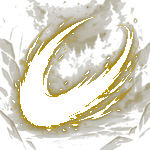
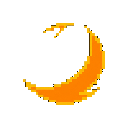
Replace boss1 wind slash with simple pixel art style

diff --git a/game/hello-world/src/scenes/BossScene.js b/game/hello-world/src/scenes/BossScene.js
@@ -1375,25 +1375,11 @@ class BossScene extends Phaser.Scene {
     slash.damage = 2; // ボス1の斬撃ダメージ
     
     // 風圧っぽさを出すための調整
-    slash.setScale(1.5, 3.5); // 縦方向に大きく伸ばして風の刃を表現
-    slash.setAlpha(0.7); // 少し透かす
-    slash.setBlendMode(Phaser.BlendModes.ADD); // 加算合成で白っぽく光る風圧感を出す
+    slash.setScale(1.5); // サイズは少し大きくする程度
     slash.setDepth(9);
     
     // 角度に合わせて回転させる
     slash.setAngle(angleDeg);
-    
-    // 風の揺らぎ（脈動）を表現するアニメーション
-    this.tweens.add({
-      targets: slash,
-      scaleX: 2.5,
-      scaleY: 4.5,
-      alpha: 0.4,
-      duration: 200,
-      yoyo: true,
-      repeat: -1,
-      ease: 'Sine.easeInOut'
-    });
     
     // 速度設定
     var speed = 350;

diff --git a/game/hello-world/index.html b/game/hello-world/index.html
@@ -35,7 +35,7 @@
   <!-- Base64 Images Removed (Loaded directly as PNG in BootScene) -->
 
   <!-- Game Logic -->
-  <script>window.GAME_VERSION = 'v235';</script>
+  <script>window.GAME_VERSION = 'v236';</script>
   <script src="src/logic/audio.js?v=112"></script>
   <script src="src/logic/flags.js?v=109"></script>
   <script src="src/logic/endings.js?v=127"></script>

diff --git a/game/hello-world/process_pixel.py b/game/hello-world/process_pixel.py
@@ -1,0 +1,22 @@
+from PIL import Image
+
+def process_pixel_slash(in_path, out_path):
+    with Image.open(in_path) as img:
+        img = img.convert('RGBA')
+        data = img.getdata()
+        new_data = []
+        for r, g, b, a in data:
+            luminance = max(r, g, b)
+            if luminance < 30:
+                new_data.append((r, g, b, 0)) # transparent background
+            else:
+                new_data.append((r, g, b, a))
+                
+        img.putdata(new_data)
+        
+        # Resize to something reasonable for a pixel art game, like 64x64 or 128x128
+        img = img.resize((128, 128), Image.Resampling.NEAREST)
+        img.save(out_path)
+        print(f"Processed and saved {out_path}")
+
+process_pixel_slash('C:/Users/deneb/.gemini/antigravity/brain/5d406c1e-d8ca-47e6-8478-e1e2a25b4252/boss1_wind_slash_pixel_1784638450782.png', 'assets/images/boss1_wind_slash.png')
